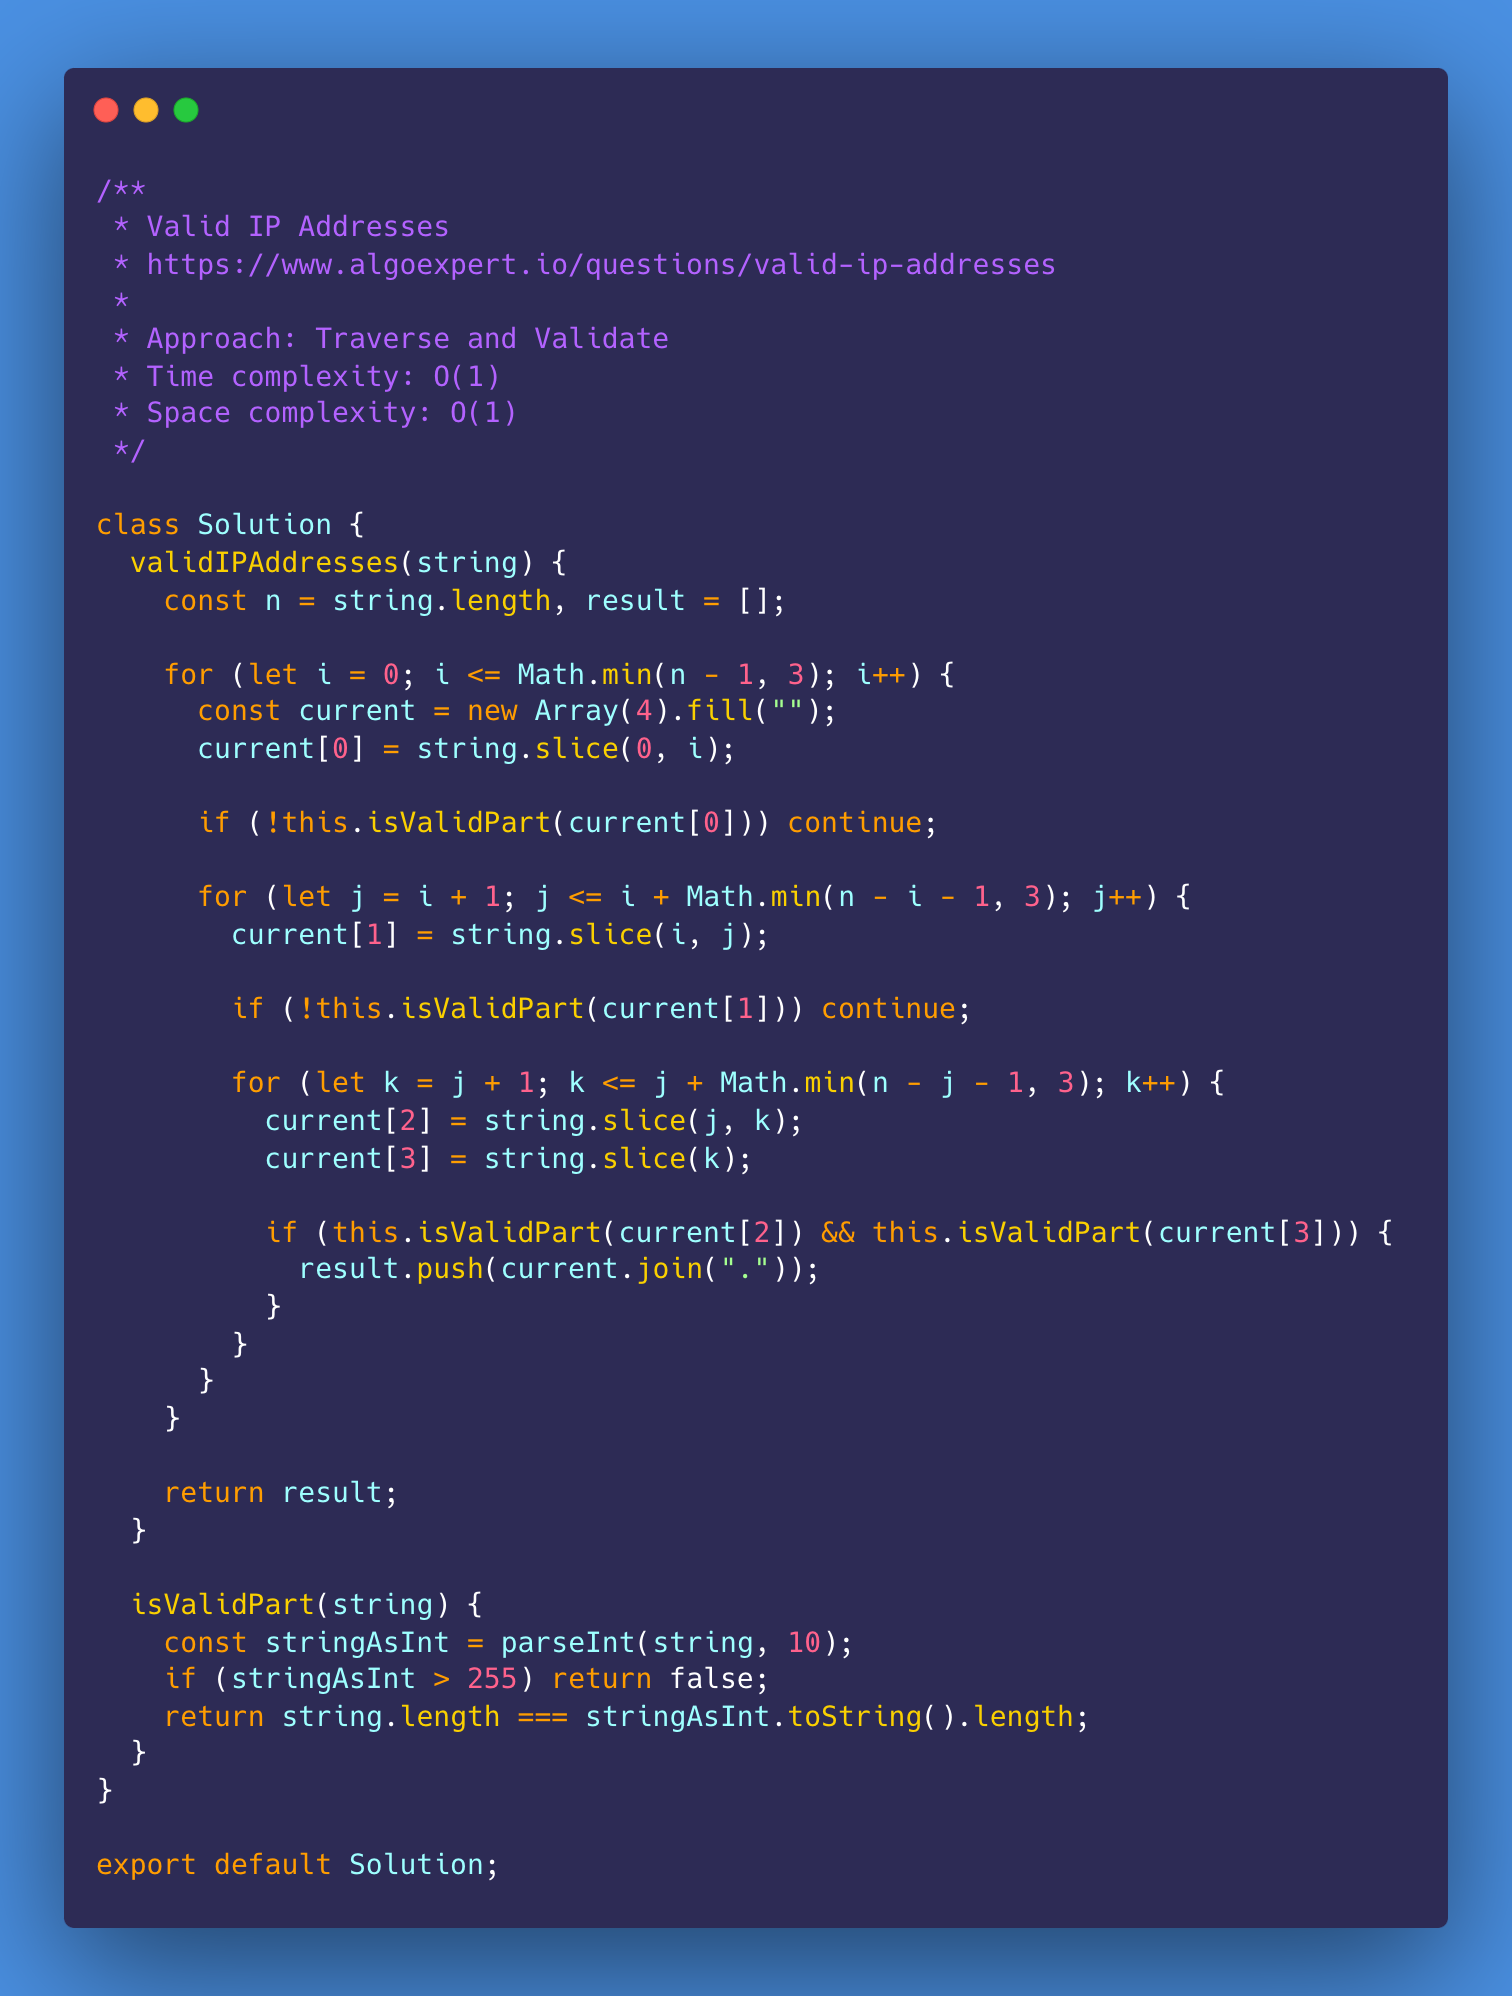
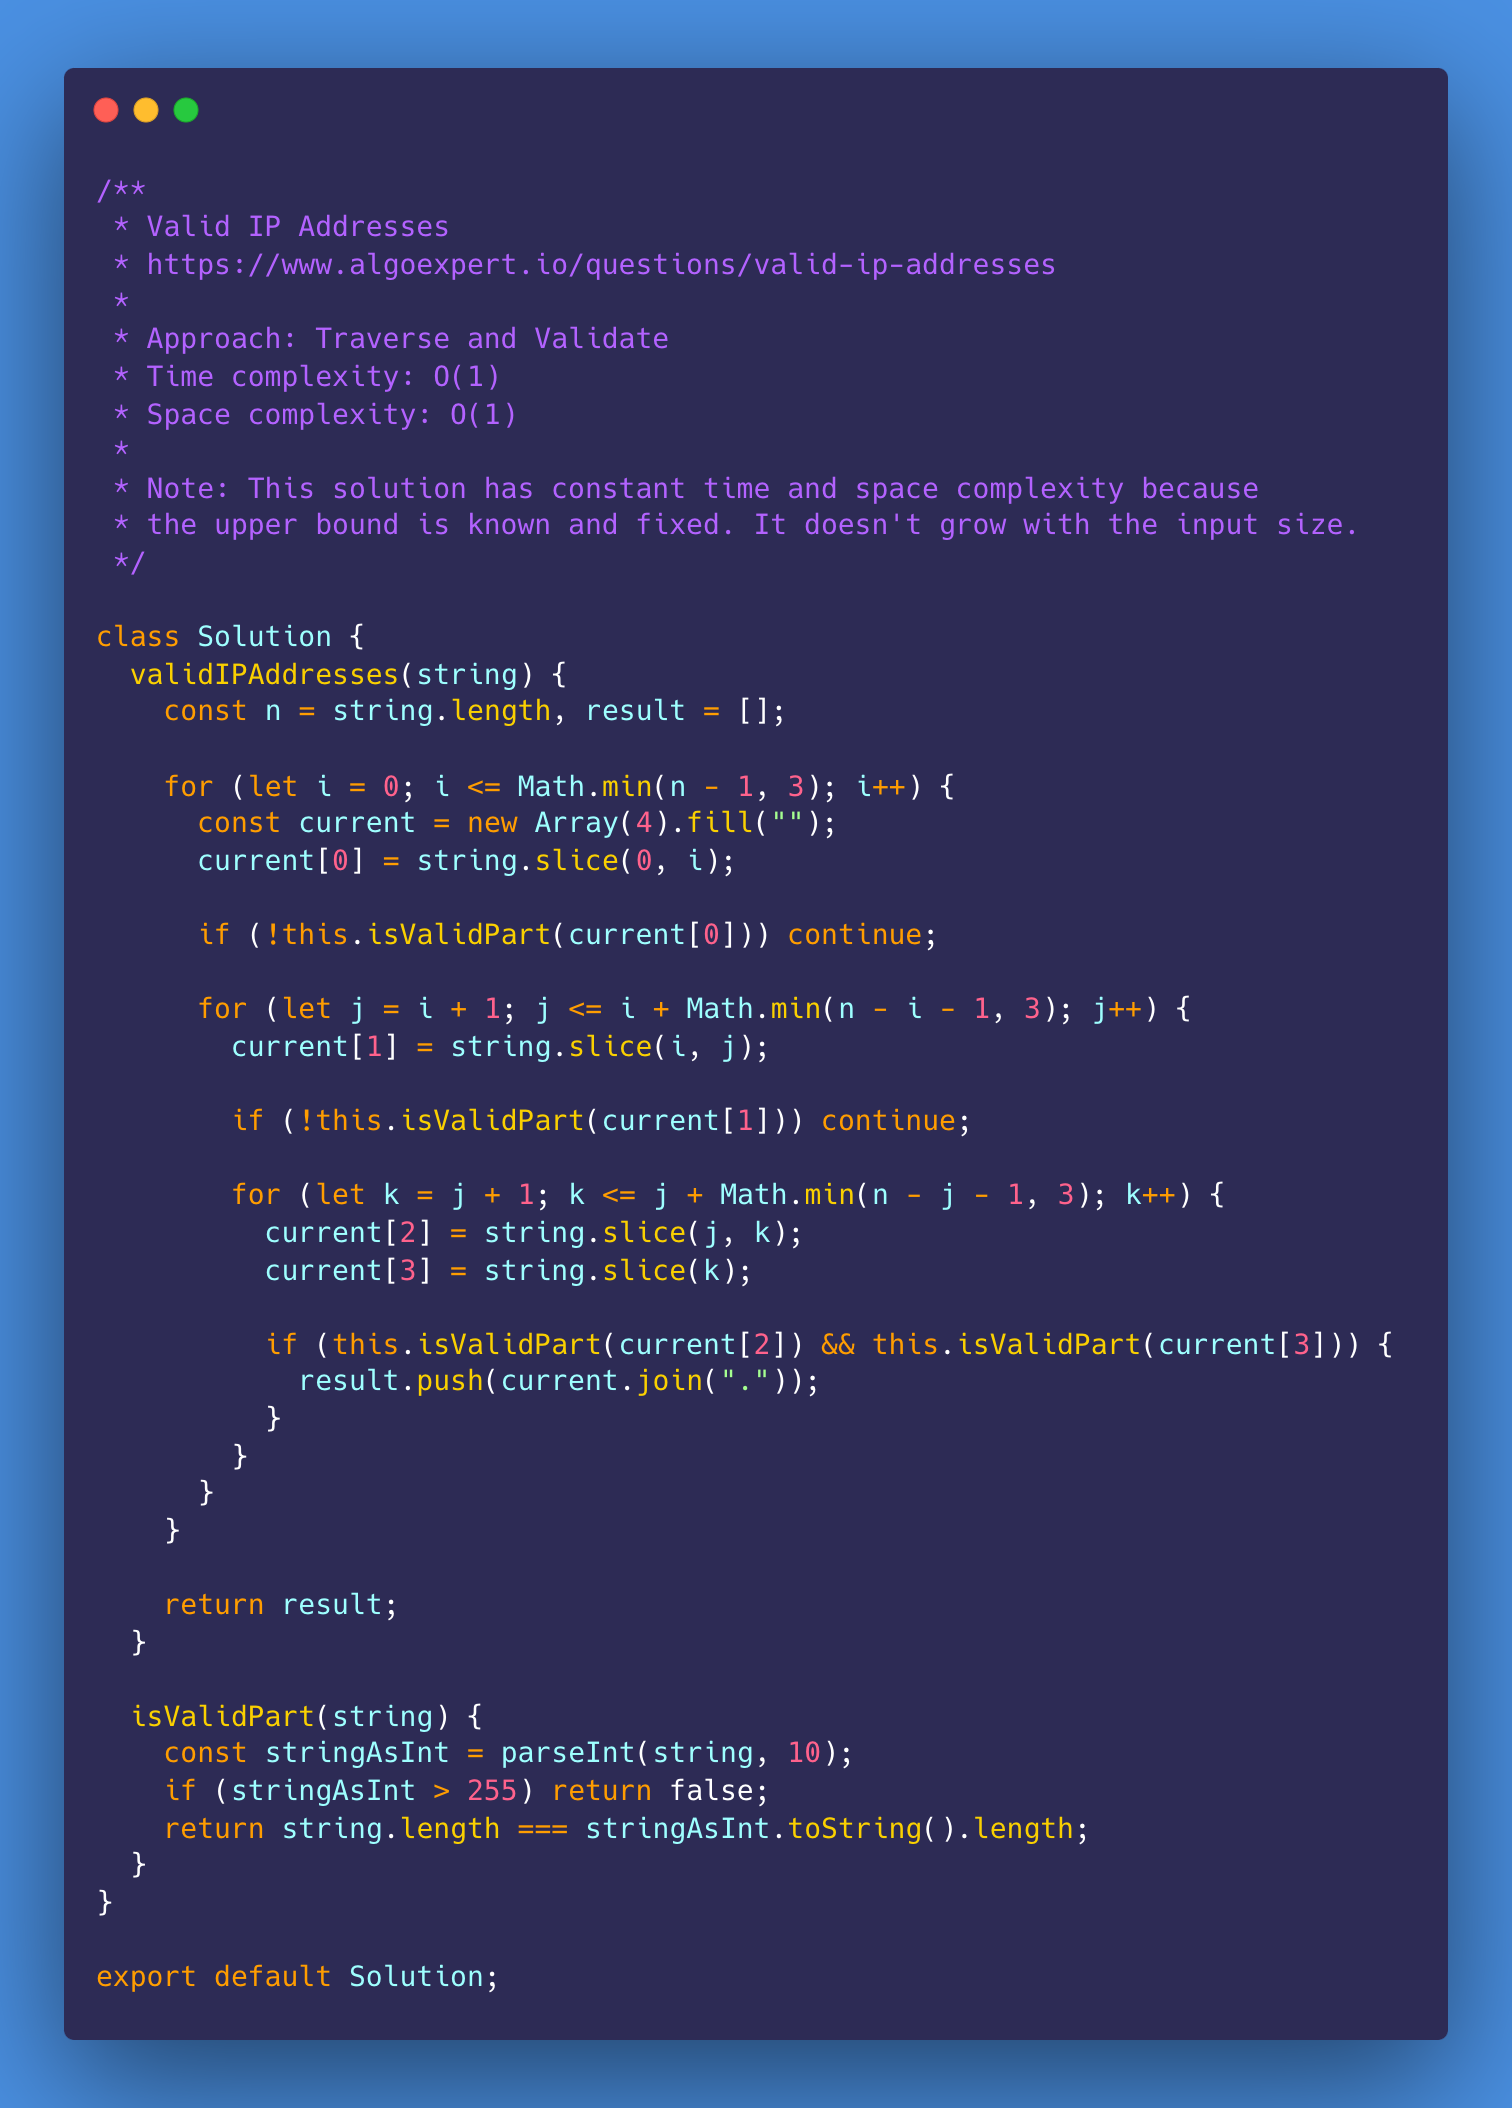
Valid IP Addresses

diff --git a/002-algoexpert/042-valid-ip-addresses/001-solution/Solution.js b/002-algoexpert/042-valid-ip-addresses/001-solution/Solution.js
@@ -5,6 +5,9 @@
  * Approach: Traverse and Validate
  * Time complexity: O(1)
  * Space complexity: O(1)
+ * 
+ * Note: This solution has constant time and space complexity because
+ * the upper bound is known and fixed. It doesn't grow with the input size.
  */
 
 class Solution {
